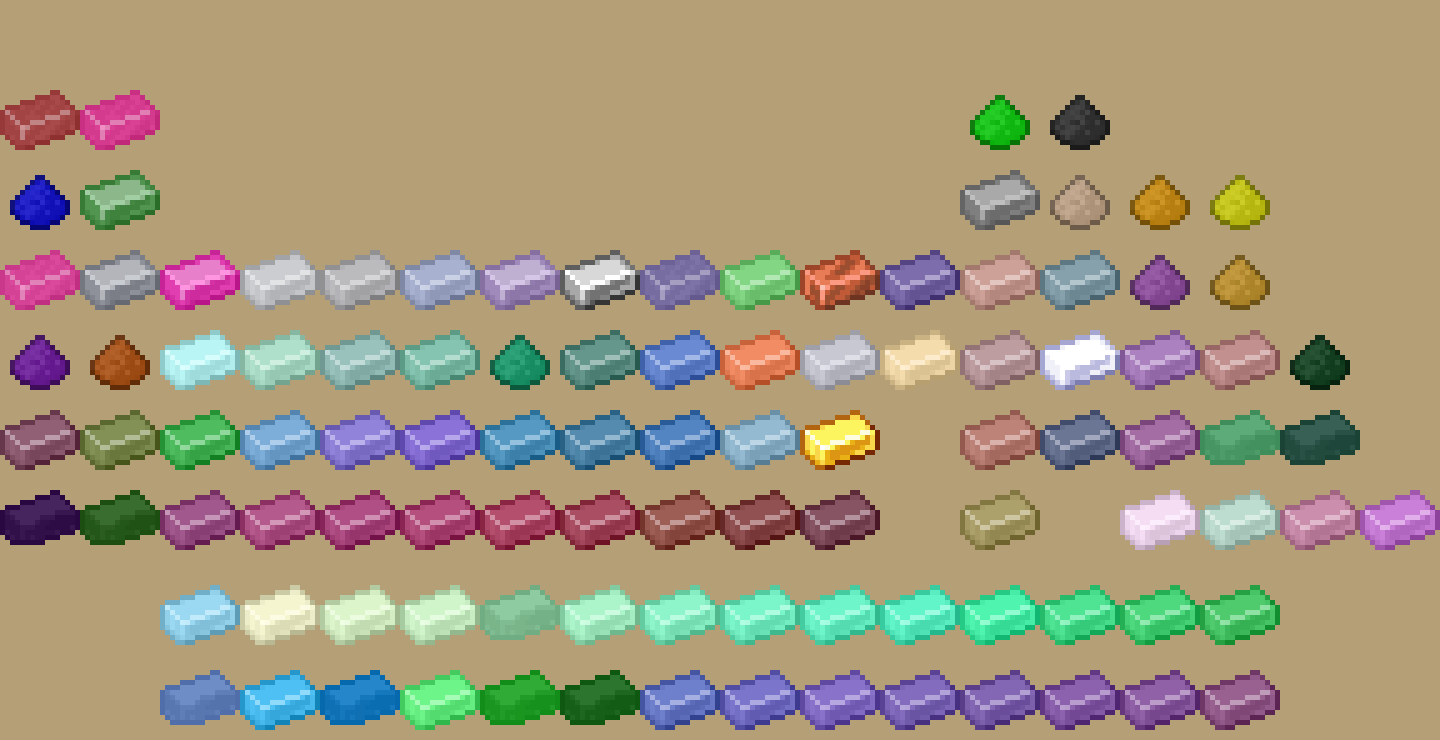
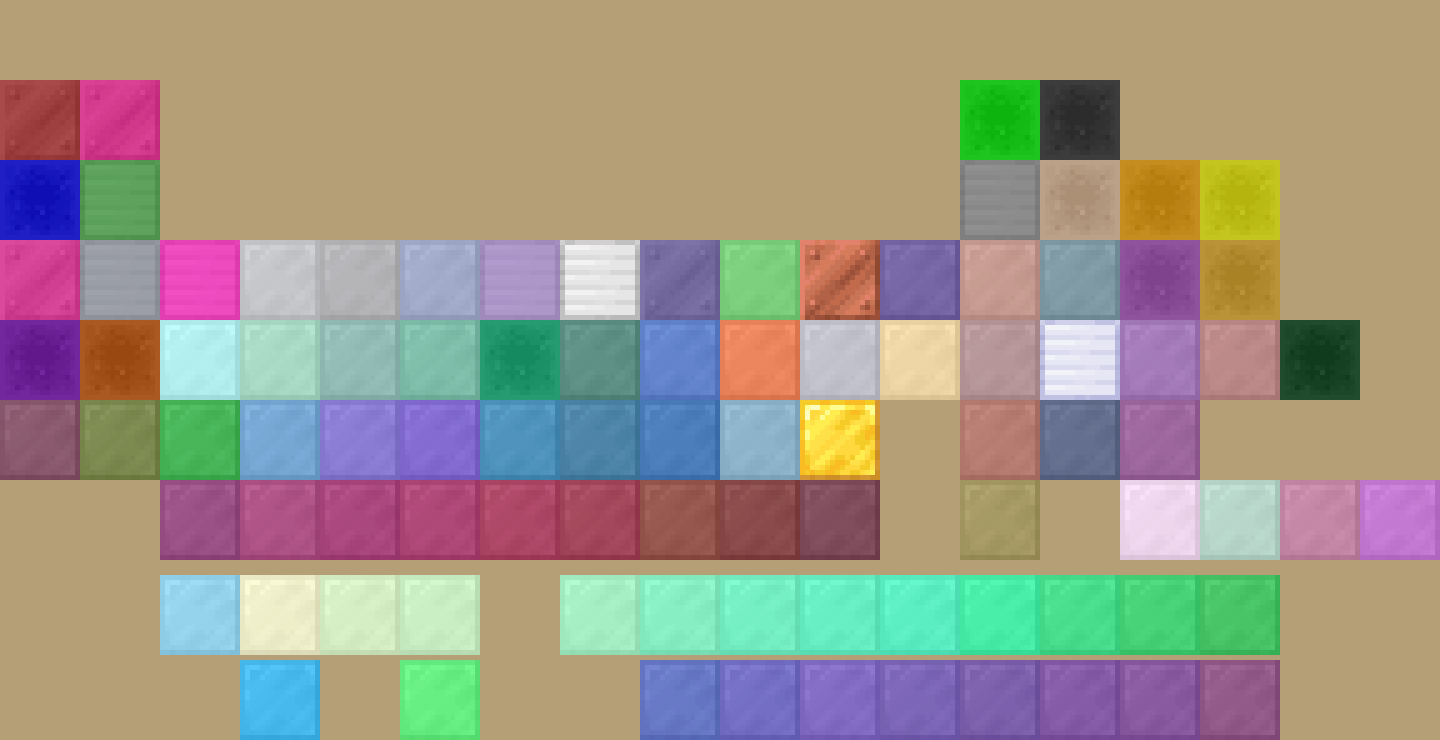
fix

diff --git a/tools/backtools/core/periodic.py b/tools/backtools/core/periodic.py
@@ -61,5 +61,5 @@ class PeriodicTableBuilder:
 		tmp.save(fp=path+"/000_TableauPNG.png",format="png")
 		tmp = self.ingot_image.resize(RESCALED_SIZE, Image.Resampling.NEAREST)
 		tmp.save(fp=path+"/000_TableauPNG_INGOT.png",format="png")
-		tmp = self.ingot_image.resize(RESCALED_SIZE, Image.Resampling.NEAREST)
+		tmp = self.block_image.resize(RESCALED_SIZE, Image.Resampling.NEAREST)
 		tmp.save(fp=path+"/000_TableauPNG_BLOCK.png",format="png")
